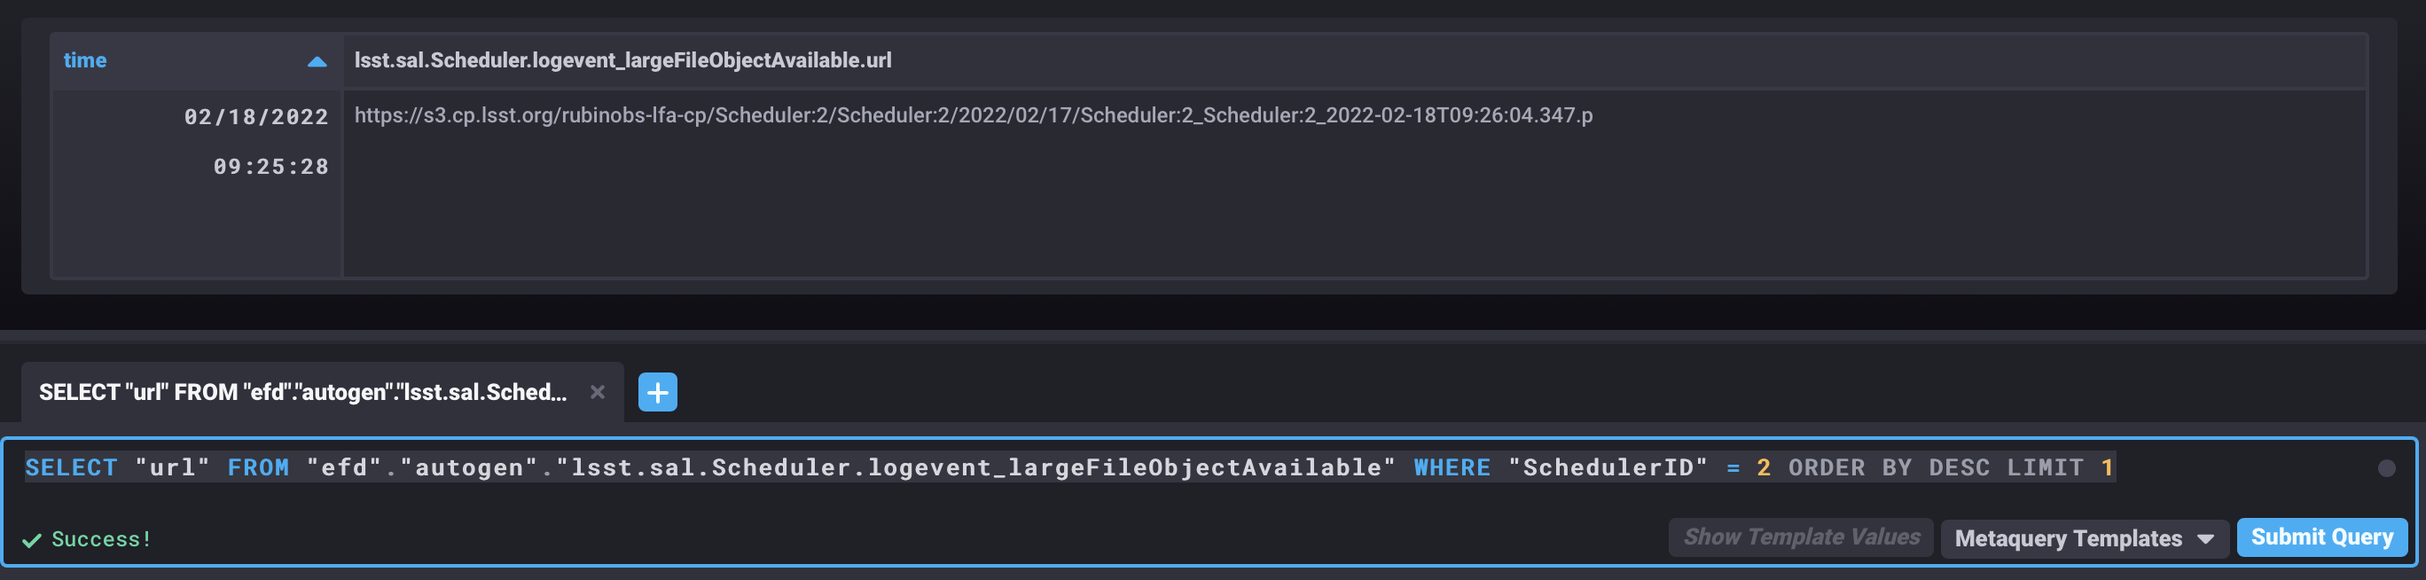
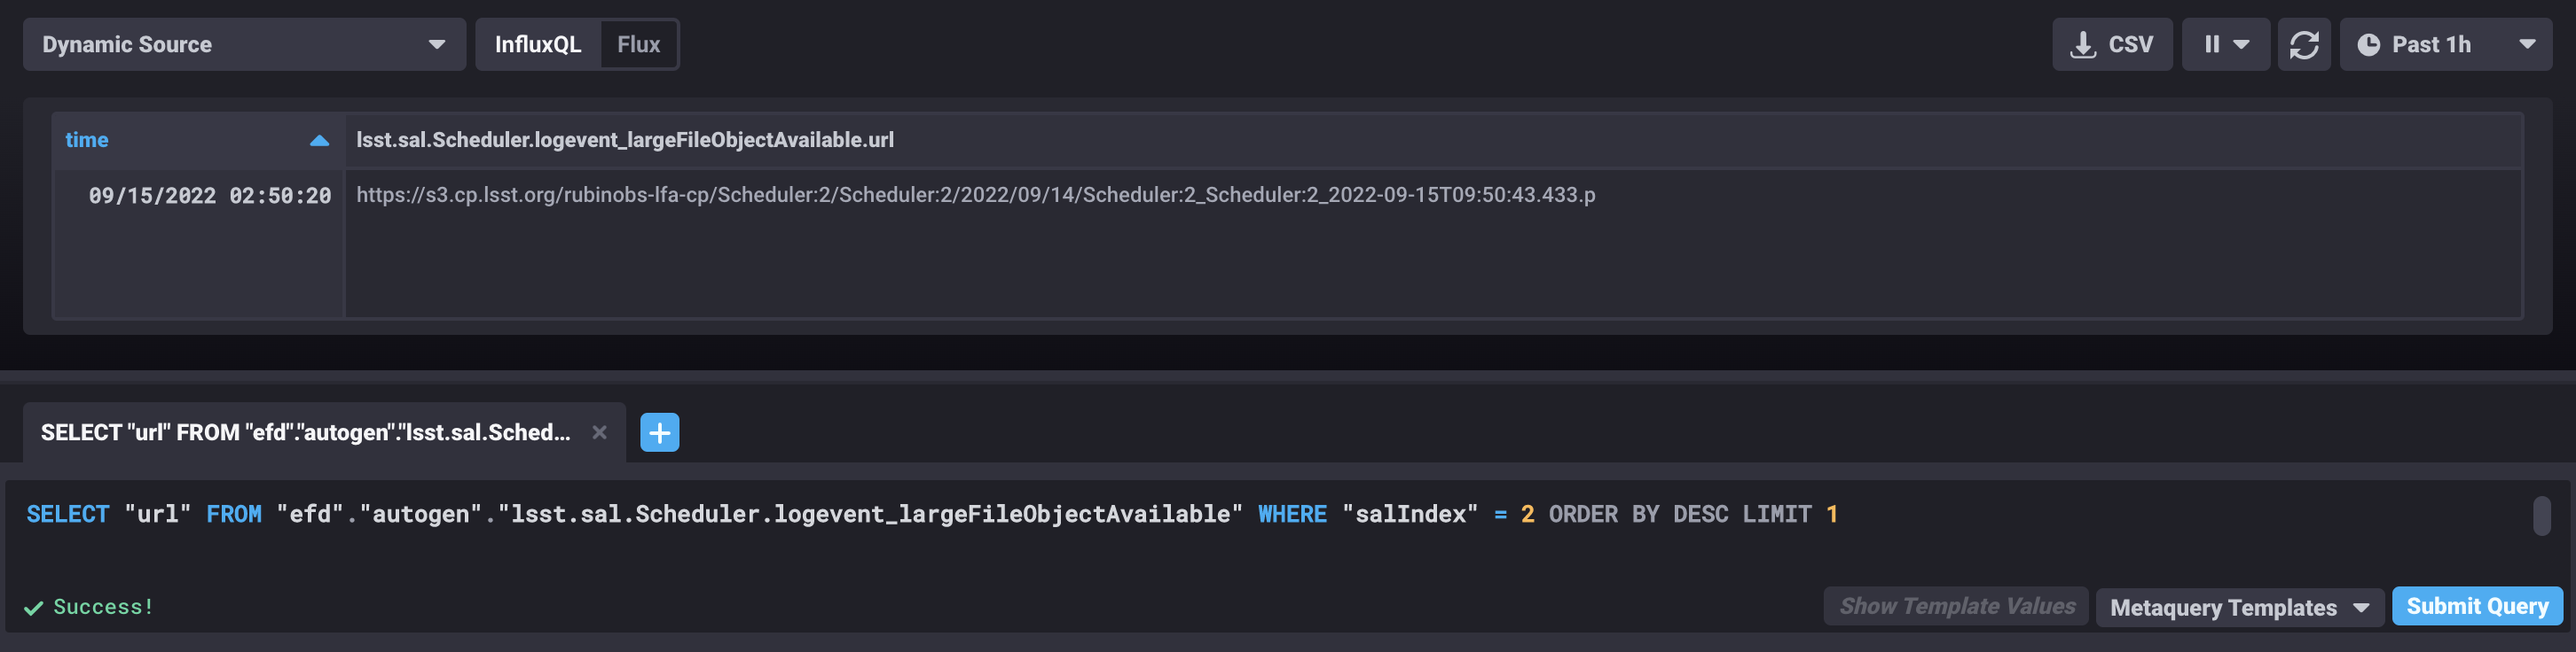
Update scheduler snapshot query and screenshot

diff --git a/Nighttime-Operations/Scheduler/misc/index.rst b/Nighttime-Operations/Scheduler/misc/index.rst
@@ -68,7 +68,7 @@ or from chronograf with the following query:
 
 .. code-block:: text
 
-    SELECT "url" FROM "efd"."autogen"."lsst.sal.Scheduler.logevent_largeFileObjectAvailable" WHERE "SchedulerID" = 2 ORDER BY DESC LIMIT 1
+    SELECT "url" FROM "efd"."autogen"."lsst.sal.Scheduler.logevent_largeFileObjectAvailable" WHERE "salIndex" = 2 ORDER BY DESC LIMIT 1
 
 .. figure:: ./_static/chronograf-scheduler-lfoa.png
     :name: fig-chronograf-scheduler-lfoa
